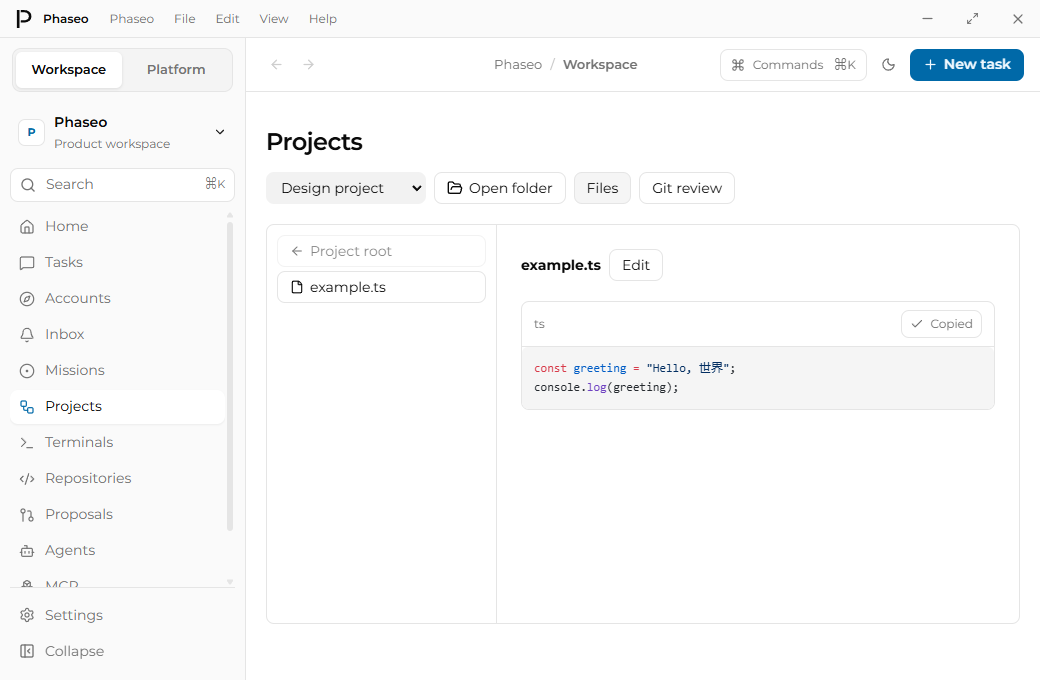
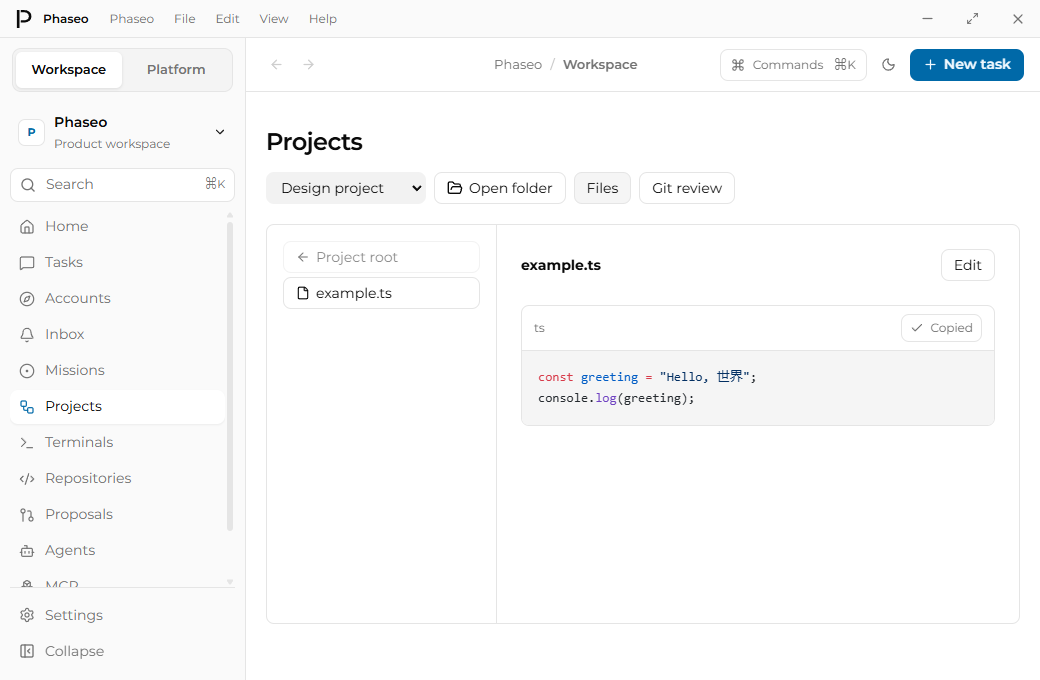
fix(desktop): align project preview spacing

diff --git a/apps/desktop/src/renderer/styles.css b/apps/desktop/src/renderer/styles.css
@@ -136,7 +136,7 @@
 .message-code-block { margin-bottom: 16px; overflow: hidden; border: 1px solid var(--border); border-radius: 8px; background: var(--surface); }
 .message-code-actions { display: flex; align-items: center; justify-content: space-between; gap: 12px; padding: 8px 12px; border-bottom: 1px solid var(--border); color: var(--text-muted); font-size: 12px; }
 .message-code-actions button { min-height: 28px; padding: 2px 8px; font-size: 12px; font-weight: 400; }
-.message-code-block pre { margin: 0; border: 0; border-radius: 0; }
+.message-code-block pre { margin: 0; padding: 16px; overflow: auto; border: 0; border-radius: 0; background: var(--surface-muted); font: 13px/1.6 ui-monospace, monospace; }
 .code-token { color: var(--code-light, inherit); }
 :root[data-theme="dark"] .code-token { color: var(--code-dark, inherit); }
 .task-activity { border: 1px solid var(--border); border-radius: 8px; overflow: hidden; margin: 12px 0; }
@@ -233,15 +233,18 @@
 form.project-toolbar { align-items: end; }
 .project-toolbar button[aria-pressed="true"] { background: var(--surface-muted); }
 .project-browser { display: flex; border: 1px solid var(--border); border-radius: 8px; min-height: 400px; }
-.project-browser > aside { flex: 0 0 230px; border-right: 1px solid var(--border); padding: 10px; }
+.project-browser > aside { flex: 0 0 230px; min-width: 0; border-right: 1px solid var(--border); padding: 16px; }
 .project-browser > aside button { width: 100%; justify-content: flex-start; margin-bottom: 4px; overflow-wrap: anywhere; text-align: left; }
 .project-browser > section { flex: 1; min-width: 0; padding: 24px; }
+.project-browser > section > .project-toolbar { justify-content: space-between; gap: 16px; margin-bottom: 24px; }
+.project-browser > section > .project-toolbar strong { min-width: 0; flex: 1 1 160px; overflow-wrap: anywhere; }
+.project-browser > section > .task-muted { margin: 0; line-height: 1.6; }
 .project-review h2 { margin: 24px 0 16px; font-size: 16px; font-weight: 600; }
 .git-file-list { overflow: hidden; margin-bottom: 24px; border: 1px solid var(--border); border-radius: 8px; }
 .git-file-list .project-toolbar { margin: 0; padding: 16px 24px; border-bottom: 1px solid var(--border); }
 .git-file-list .project-toolbar:last-child { border-bottom: 0; }
 .git-file-list .project-toolbar > span { flex: 1 1 200px; min-width: 0; overflow-wrap: anywhere; }
-.project-editor { width: 100%; min-height: 55vh; resize: vertical; border: 1px solid var(--border); border-radius: 6px; padding: 12px; background: var(--surface-muted); color: var(--text); font: 12px/1.6 ui-monospace, monospace; tab-size: 4; }
+.project-editor { width: 100%; min-height: 55vh; resize: vertical; border: 1px solid var(--border); border-radius: 6px; padding: 12px; background: var(--surface-muted); color: var(--text); font: 13px/1.6 ui-monospace, monospace; tab-size: 4; }
 .command-palette { width: min(620px, calc(100vw - 40px)); padding: 0; margin-top: 15vh; border: 1px solid var(--border); border-radius: 12px; background: var(--surface); color: var(--text); box-shadow: var(--shadow); }
 .command-palette::backdrop { background: rgb(0 0 0 / .5); }
 .command-search { display: flex; align-items: center; gap: 12px; padding: 16px; border-bottom: 1px solid var(--border); }
@@ -272,7 +275,7 @@ form.project-toolbar { align-items: end; }
 .attachment-preview header button { border: 0; background: transparent; color: inherit; cursor: pointer; }
 .attachment-preview img { display: block; max-width: 100%; max-height: 65vh; margin: auto; object-fit: contain; }
 .attachment-preview pre { min-height: 0; margin: 0; padding: 16px; max-height: 65vh; overflow: auto; white-space: pre-wrap; overflow-wrap: anywhere; background: var(--surface-muted); font: 12px/1.6 ui-monospace, monospace; }
-.project-browser pre, .project-review pre { overflow: auto; font-size: 12px; line-height: 1.6; max-height: 65vh; background: var(--surface-muted); border-radius: 6px; padding: 12px; }
+.project-browser .message-code-block pre, .project-review .message-code-block pre { max-height: 65vh; }
 
 * { box-sizing: border-box; }
 html, body, #root { width: 100%; height: 100%; margin: 0; overflow: hidden; }
@@ -342,7 +345,7 @@ button { color: inherit; }
 .desktop-menu-separator { height: 1px; margin: 4px 5px; background: var(--border); }
 .desktop-dialog-backdrop { position: fixed; inset: 0; z-index: 200; display: grid; place-items: center; background: rgba(4,6,8,.44); backdrop-filter: blur(2px); }
 .desktop-dialog { position: relative; width: 430px; border: 1px solid var(--border-strong); border-radius: 13px; background: var(--surface); padding: 27px; box-shadow: 0 25px 80px rgba(0,0,0,.35); }
-.desktop-dialog h1 { margin: 6px 0 8px; font-size: 20px; font-weight: 650; letter-spacing: -.035em; }
+.desktop-dialog h1 { margin: 6px 0 8px; font-size: 20px; font-weight: 600; letter-spacing: -.035em; }
 .dialog-close { position: absolute; top: 12px; right: 12px; display: grid; width: 28px; height: 28px; place-items: center; border: 0; border-radius: 7px; background: transparent; color: var(--text-muted); cursor: pointer; }
 .dialog-close:hover { background: var(--surface-hover); color: var(--text); }
 .about-dialog { text-align: center; }
@@ -439,7 +442,7 @@ button { color: inherit; }
 .live-indicator i { width: 6px; height: 6px; border-radius: 50%; background: #42b883; box-shadow: 0 0 0 3px rgba(66,184,131,.1); }
 .empty-state { display: flex; min-height: 360px; align-items: center; justify-content: center; flex-direction: column; text-align: center; }
 .empty-state > svg { color: var(--text-subtle); }
-.empty-state h1, .empty-state h3 { margin: 12px 0 7px; font-weight: 650; letter-spacing: -.025em; }
+.empty-state h1, .empty-state h3 { margin: 12px 0 7px; font-weight: 600; letter-spacing: -.025em; }
 .empty-state h1 { font-size: 24px; }
 .empty-state h3 { font-size: 14px; }
 .empty-state > p:not(.eyebrow) { max-width: 430px; margin: 0 0 20px; color: var(--text-muted); font-size: 14px; line-height: 1.6; }

diff --git a/apps/desktop/docs/design-audit.md b/apps/desktop/docs/design-audit.md
@@ -49,6 +49,8 @@ Reviewed against the live Phaseo Models and Chat layouts and the web application
 
 33. **Task history navigation:** scroll history rows independently of New task, search and archive controls. Long titles use up to two lines and remain available through the full title attribute; selected rows expose pressed state. The large-history workflow verifies independent scrolling, retained controls and title clamping while preserving paging/retry/navigation behavior.
 
+34. **Project surface consistency:** file navigation uses a 16-pixel inset, the filename and editing actions occupy opposite ends of a wrapping toolbar, and file/Git previews retain the shared code surface's 16-pixel padding, 13-pixel text and square inner corners. Dialog and empty-state headings use the bundled semibold weight. Rendered assertions check preview/navigation insets, text size, inner corners and toolbar alignment at both window sizes/themes.
+
 The sidebar now scrolls independently while Settings and Collapse remain accessible. Application menus align to the selected trigger as text sizes change. The desktop uses the web logo rather than an invented mark.
 
 ![Home](screenshots/ai-workspace.png)
